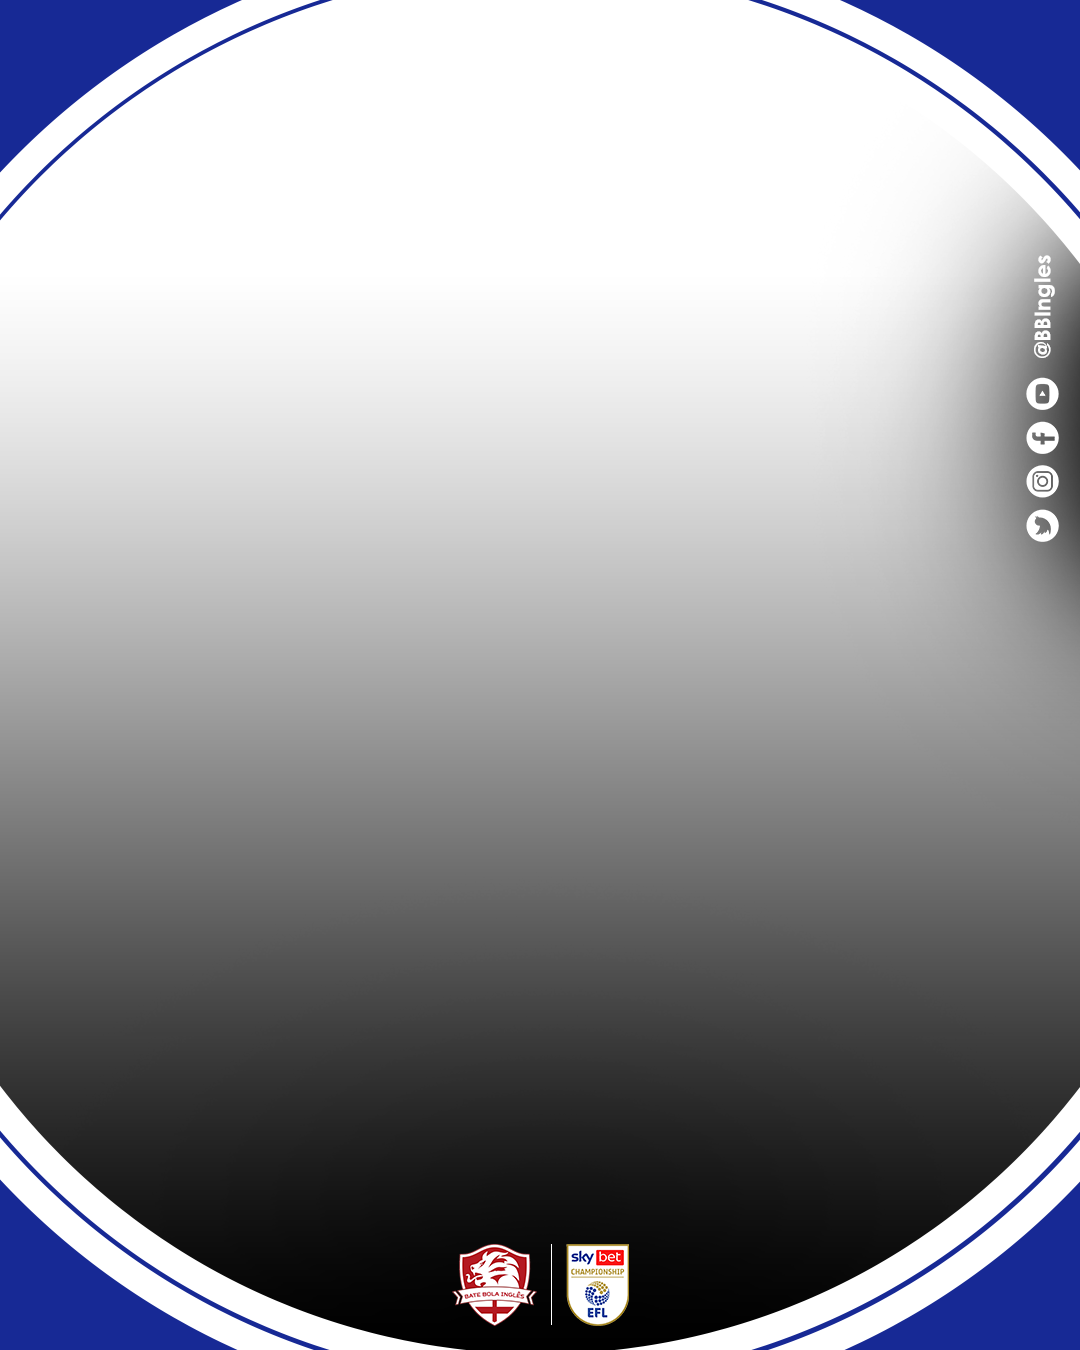
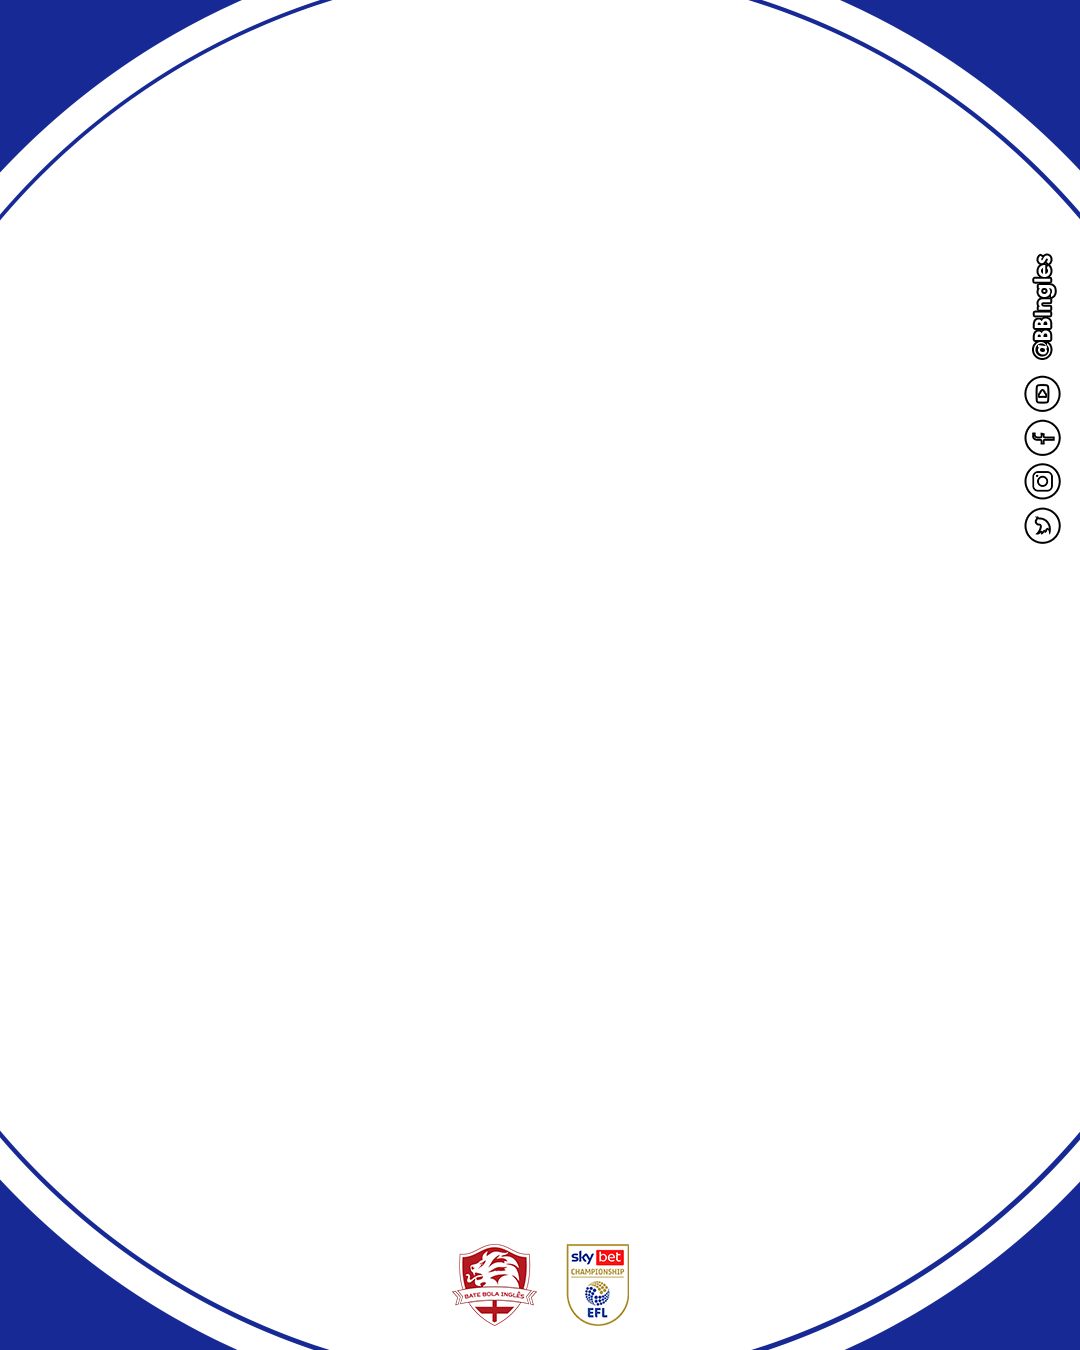
Inclusão de gradiente na imagem

diff --git a/utils/news_generator.py b/utils/news_generator.py
@@ -80,6 +80,27 @@ class NewsGenerator:
         # Se não conseguiu balancear, usar textwrap tradicional
         return textwrap.wrap(text, width=30)
     
+    def _apply_bottom_gradient(self, image: Image.Image, intensity: float = 0.8) -> Image.Image:
+        """
+        Aplica um gradiente preto transparente da metade para o fim da imagem
+        """
+        width, height = image.size
+        # Criar uma camada separada para o gradiente
+        gradient = Image.new('RGBA', (width, height), (0, 0, 0, 0))
+        draw = ImageDraw.Draw(gradient)
+
+        # Começa o gradiente em 50% da imagem até o final
+        start_y = height // 2
+        for y in range(start_y, height):
+            # Calcula a opacidade (alpha) aumentando conforme desce
+            # 0 no meio, 'intensity' no fundo
+            alpha = int(255 * intensity * ((y - start_y) / (height - start_y)))
+            draw.line([(0, y), (width, y)], fill=(0, 0, 0, alpha))
+        
+        # Sobrepor o gradiente na imagem original
+        return Image.alpha_composite(image, gradient)
+    
+
     def generate_news_image(self, league: str, headline: str, 
                            background: str = None, alinhamento: str = "Centro") -> Image.Image:
         """
@@ -141,6 +162,9 @@ class NewsGenerator:
                 crop_x + bg_width, 
                 crop_y + bg_height
             ))
+
+            if league == 'championship':
+                bg_cropped = self._apply_bottom_gradient(bg_cropped, intensity=0.9)
             
             # Criar imagem final com background cobrindo tudo
             final_img = Image.new("RGBA", base.size)

diff --git a/app.py b/app.py
@@ -297,6 +297,16 @@ def obter_escudo_path(team_name, template_path=None):
     
     return None
 
+def apply_bottom_gradient(image: Image.Image, intensity: float = 0.9) -> Image.Image:
+        """Cria o efeito de sombra na parte inferior para destacar o texto"""
+        width, height = image.size
+        gradient = Image.new('RGBA', (width, height), (0, 0, 0, 0))
+        draw = ImageDraw.Draw(gradient)
+        start_y = int(height * 0.4) # Começa o gradiente um pouco acima do meio
+        for y in range(start_y, height):
+            alpha = int(255 * intensity * ((y - start_y) / (height - start_y)))
+            draw.line([(0, y), (width, y)], fill=(0, 0, 0, alpha))
+        return Image.alpha_composite(image, gradient)
 
 def desenhar_placar(template_path, escudo_casa, escudo_fora, placar_texto, marcadores_casa, marcadores_fora, background=None, alinhamento="Centro"):
     base = Image.open(template_path).convert("RGBA")
@@ -320,6 +330,9 @@ def desenhar_placar(template_path, escudo_casa, escudo_fora, placar_texto, marca
         
         top = (new_height - base.height) // 2
         bg_cropped = bg_resized.crop((left, top, left + base.width, top + base.height))
+
+        if 'championship' in template_path.lower() or 'efl' in template_path.lower():
+                bg_cropped = apply_bottom_gradient(bg_cropped, intensity=0.9)
 
         final_img = Image.new("RGBA", bg_cropped.size, (0, 0, 0, 0))
         base_x = (bg_cropped.width - base.width) // 2
